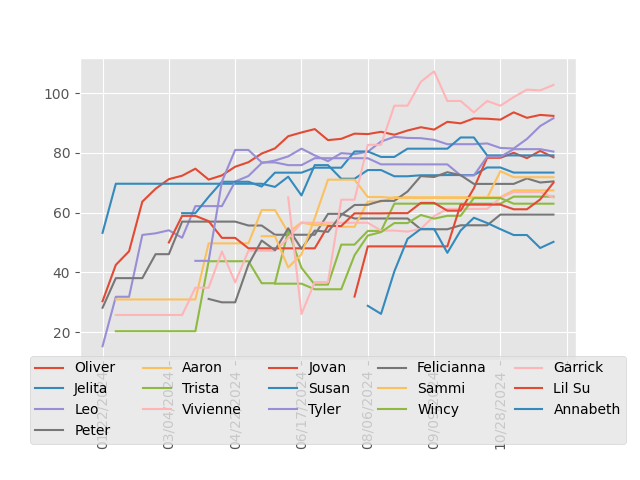
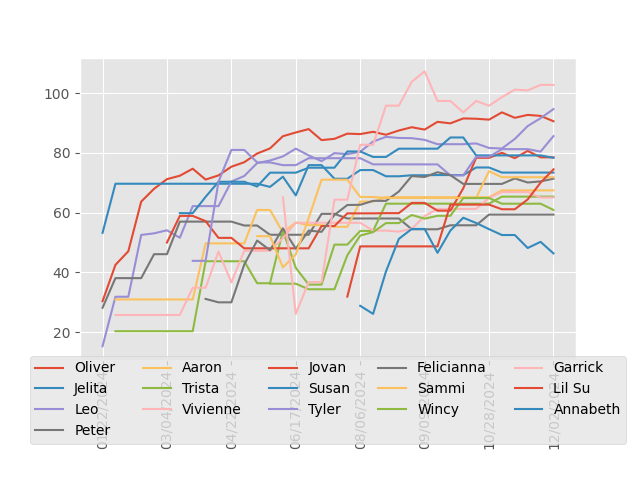
update rankings

diff --git a/README.md b/README.md
@@ -8,25 +8,25 @@
 | --- | --- | --- | --- | --- |
 | Ted | 109.30 | 9 | 0 | 100% |
 | Garrick | 102.77 | 26 | 21 | 55% |
-| Oliver | 92.40 | 57 | 65 | 47% |
-| Leo | 91.63 | 43 | 56 | 43% |
+| Leo | 94.68 | 45 | 56 | 45% |
+| Oliver | 90.61 | 57 | 67 | 46% |
+| Tyler | 85.64 | 10 | 19 | 34% |
 | Iris | 82.84 | 6 | 8 | 43% |
-| Tyler | 80.46 | 10 | 17 | 37% |
-| Susan | 79.18 | 11 | 13 | 46% |
 | Jovan | 78.53 | 20 | 27 | 43% |
+| Susan | 78.38 | 11 | 15 | 42% |
+| Lil Su | 74.51 | 8 | 15 | 35% |
 | Jelita | 73.43 | 18 | 28 | 39% |
 | Sammi | 71.87 | 13 | 16 | 45% |
 | Abhi | 71.79 | 5 | 1 | 83% |
-| Felicianna | 70.47 | 25 | 50 | 33% |
-| Lil Su | 70.05 | 8 | 13 | 38% |
+| Felicianna | 71.38 | 25 | 52 | 32% |
 | Harsha | 67.66 | 8 | 11 | 42% |
 | Aaron | 67.47 | 15 | 16 | 48% |
 | Simon | 67.19 | 9 | 9 | 50% |
 | Kenny | 66.28 | 6 | 5 | 55% |
 | Trista | 65.37 | 13 | 18 | 42% |
 | Vivienne | 65.07 | 15 | 25 | 38% |
-| Wincy | 63.02 | 15 | 24 | 38% |
 | Viktoria | 61.03 | 4 | 8 | 33% |
+| Wincy | 60.92 | 15 | 26 | 37% |
 | Dev | 60.67 | 2 | 1 | 67% |
 | Jackie | 60.39 | 2 | 1 | 67% |
 | Peter | 59.37 | 11 | 20 | 35% |
@@ -35,12 +35,12 @@
 | Dan | 53.89 | 2 | 5 | 29% |
 | Kazumi | 53.78 | 4 | 9 | 31% |
 | Andrea | 53.59 | 1 | 3 | 25% |
-| Annabeth | 50.24 | 13 | 24 | 35% |
 | Bronte | 49.99 | 3 | 1 | 75% |
 | Karen | 48.75 | 3 | 5 | 38% |
 | Maurice | 48.47 | 1 | 1 | 50% |
 | Clarys | 48.39 | 3 | 7 | 30% |
 | Lucille | 46.47 | 2 | 5 | 29% |
+| Annabeth | 46.38 | 13 | 26 | 33% |
 | Pansy | 43.02 | 3 | 8 | 27% |
 | Sincere | 41.04 | 3 | 8 | 27% |
 | Janice | 40.28 | 1 | 1 | 50% |
@@ -77,22 +77,22 @@
 
 | Player | ELO | Wins | Losses | Win % |
 | --- | --- | --- | --- | --- |
+| Leo | 82.25 | 3 | 7 | 30% |
 | Garrick | 67.18 | 2 | 3 | 40% |
-| Leo | 63.23 | 1 | 7 | 12% |
 | Jovan | 61.54 | 1 | 7 | 12% |
-| Oliver | 54.64 | 2 | 11 | 15% |
+| Lil Su | 60.51 | 0 | 6 | 0% |
+| Tyler | 57.66 | 1 | 4 | 20% |
 | Andrea | 53.96 | 1 | 0 | 100% |
-| Susan | 53.43 | 1 | 2 | 33% |
+| Felicianna | 53.43 | 1 | 13 | 7% |
 | Sammi | 53.39 | 1 | 0 | 100% |
-| Wincy | 53.38 | 1 | 2 | 33% |
+| Susan | 52.90 | 1 | 4 | 20% |
 | Vivienne | 51.48 | 0 | 3 | 0% |
 | Iris | 50.87 | 0 | 3 | 0% |
 | JustinKhoo | 50.70 | 1 | 0 | 100% |
-| Lil Su | 49.95 | 0 | 4 | 0% |
-| Felicianna | 49.11 | 1 | 11 | 8% |
+| Oliver | 47.13 | 2 | 13 | 13% |
+| Wincy | 46.93 | 1 | 4 | 20% |
 | Dan | 44.80 | 0 | 3 | 0% |
 | Lucille | 43.55 | 0 | 2 | 0% |
-| Annabeth | 43.04 | 0 | 1 | 0% |
 | Jelita | 42.25 | 0 | 4 | 0% |
 | Harsha | 41.66 | 0 | 4 | 0% |
 | Karen | 39.97 | 0 | 3 | 0% |
@@ -100,8 +100,8 @@
 | Aaron | 38.78 | 0 | 1 | 0% |
 | Sincere | 38.66 | 1 | 1 | 50% |
 | Abhi | 38.42 | 0 | 1 | 0% |
-| Tyler | 37.41 | 1 | 2 | 33% |
 | Julie | 33.69 | 0 | 1 | 0% |
+| Annabeth | 28.42 | 0 | 3 | 0% |
 | Howard | 27.93 | 0 | 3 | 0% |
 | Simon | 25.09 | 0 | 1 | 0% |
 | Trista | 20.51 | 0 | 1 | 0% |
